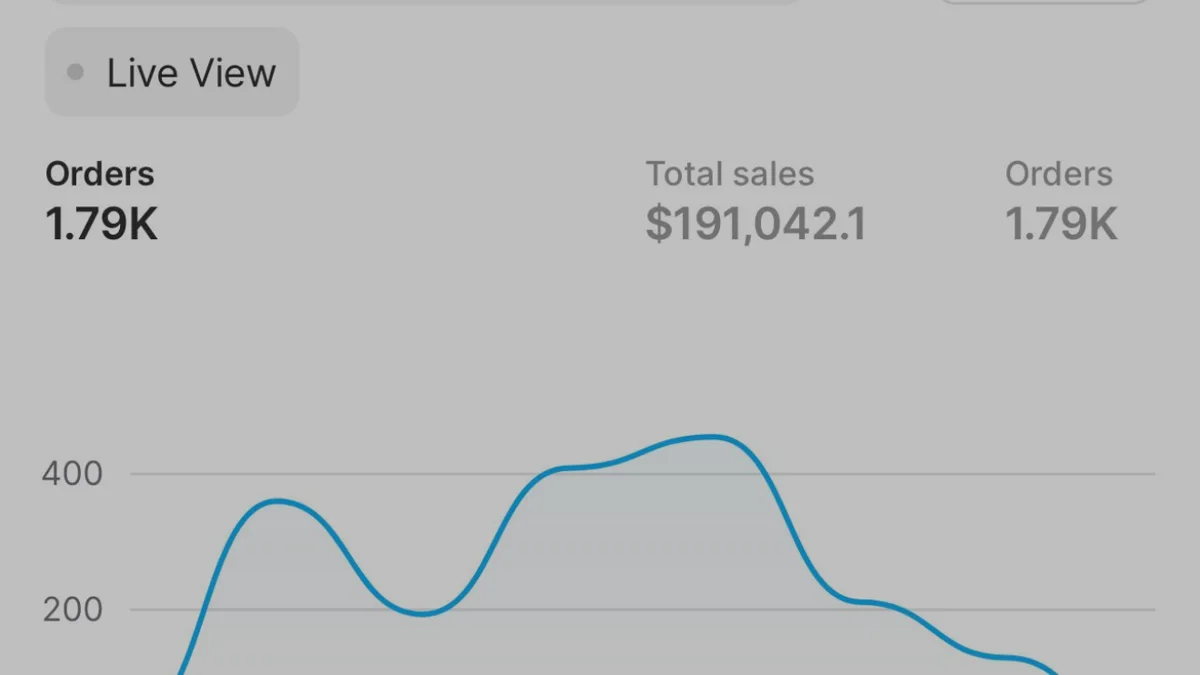
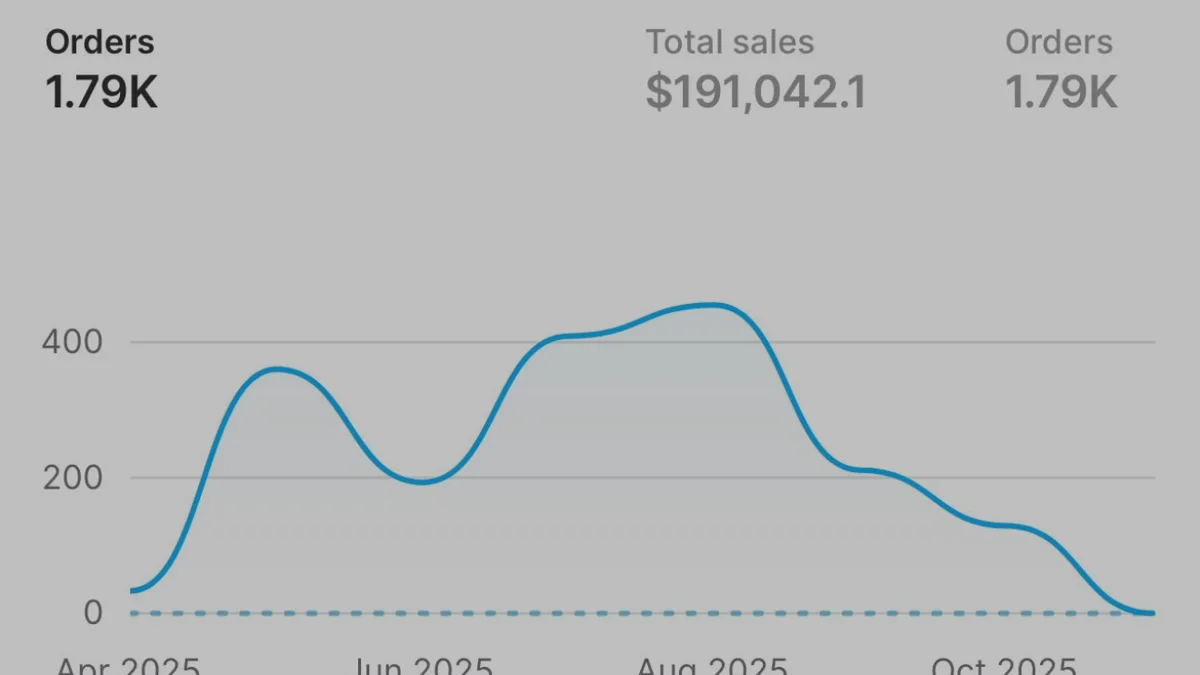
VSL grid full-width breakout, Exotic Ripz takedown handling, template 2 questions
- Case-study grid breaks out to max-w-7xl viewport width so the 2x2
  reads large instead of squeezed into the text column.
- Exotic Ripz: url removed and case study/results note the owners took
  the site down after handback; VSL card image re-cropped so the
  $191,042 figure leads; card copy mentions the takedown.
- Template 2 gains the four discovery questions as a numbered list and
  the behind-the-scenes paragraph (forms + newsletter DB, SEO/agentic
  SEO, brand voice); Template 4 Exotic Ripz line links the case study.

Claude-Session: https://claude.ai/code/session_01GkBvN7ETiDDbqc7828k9rp

diff --git a/src/data/projects.ts b/src/data/projects.ts
@@ -133,16 +133,13 @@ export const projectsData: Record<string, ProjectData> = {
     desc: 'Vibrant e-commerce platform for a collectible trading card community brand.',
     challenge: 'Exotic Ripz needed an e-commerce store that captured the excitement and energy of the collectible trading card community. They needed a platform that could handle booster packs, new releases, restocks, and community engagement across Discord, Twitch, and social media.',
     solution: 'We built a full-featured Shopify storefront with bold animated branding, integrated Discord community links, multi-platform social presence (Discord, YouTube, Twitch, TikTok, Instagram, X, Threads), smart product categorization, and conversion-optimized popups for email capture.',
-    results: 'Launched a thriving online store with active community engagement. Email list grew 400% in the first month through smart discount capture. Booster pack drops consistently sell out within hours of release.',
+    results: 'Over $191,000 in trading card sales across 1,790 orders on the store we built and shipped, with the shipping backend configured end to end. Email list grew 400% in the first month through smart discount capture, and booster pack drops consistently sold out within hours of release. The store was handed back to the owners to maintain, and they have since taken the site down, so there is no live link to share.',
     heroImage: '/images/projects/exoticripz.jpg',
     gallery: ['/images/projects/exoticripz.jpg', '/images/projects/exoticripz-mobile.jpg', null],
     nextSlug: 'kds-systems',
-    url: 'https://exoticripz.com',
+    // No url: the owners took the site down after we handed it back to
+    // them to maintain, so there is nothing live to link or preview.
     mobileImage: '/images/projects/exoticripz-mobile.jpg',
-    // Site origin is currently returning Cloudflare 1001 (origin DNS
-    // dead) so the iframe and screenshot would both show errors. Keep
-    // the case study but skip the live preview block. Re-enable when
-    // the site is back up.
     embeddable: false,
     livePreview: false,
   },

diff --git a/src/components/VslContent.tsx b/src/components/VslContent.tsx
@@ -75,7 +75,7 @@ export function VslContent() {
             desktop so the cards read large. Links open in a new tab so
             this page (and its form) stays open. */}
         <AnimatedSection delay={0.2}>
-          <div className="mt-4 sm:mt-6 lg:-mx-32 text-left">
+          <div className="mt-4 sm:mt-6 relative left-1/2 -translate-x-1/2 w-screen max-w-7xl px-5 sm:px-8 text-left">
             <p className="text-xs font-semibold tracking-wider text-gray-500 uppercase text-center mb-6">
               The work, and the numbers
             </p>
@@ -101,7 +101,7 @@ export function VslContent() {
                 },
                 {
                   name: 'Exotic Ripz', where: 'E-commerce, US',
-                  proof: '$191k in trading card sales, 1,790 orders on the Shopify store we built.',
+                  proof: '$191k in trading card sales, 1,790 orders on the Shopify store we built. The owners have since taken the store down.',
                   href: '/projects/exotic-ripz', label: 'View case study',
                   image: '/images/projects/exoticripz-card.webp',
                 },

diff --git a/docs/pitch-templates.md b/docs/pitch-templates.md
@@ -56,11 +56,18 @@ Every template already has the right tracked link baked in. All links open the s
 >
 > Quick intro: we're Blok Blok Studio, a team of 4 (Berlin, LA, Virginia) running since 2024. We don't just build websites. We build the ecosystem around them: marketing, SEO, social, and automations like AI receptionists and auto-texting. One client, a DFW plumber, did $50k+ gross in his first 5 months on our system.
 >
-> Here's a 3-minute breakdown of how we think about it: https://www.blokblokstudio.com/vsl?utm_source=warm-email&utm_medium=email&utm_campaign=pitch
+> Behind the scenes, every build also comes with the stuff you'd otherwise have to chase down yourself: contact forms wired to a database so you're collecting emails for newsletters from day one, SEO plus the newly emerging agentic SEO so you show up in searches and AI answers, and a site that actually sounds like your brand. The point is to free up your time so you can focus on your business.
+>
+> Here's a 3-minute breakdown of how we think about it, with the client results on the same page: https://www.blokblokstudio.com/vsl?utm_source=warm-email&utm_medium=email&utm_campaign=pitch
 >
 > The fastest way forward is a quick call so I can learn your business and send pricing that actually fits: https://calendar.app.google/Vk72posRYTuj6KHs8
 >
-> If it's easier, just reply with: what services you offer, where you're located, your biggest struggle right now, and your growth goal. I'll shoot pricing over from there.
+> If it's easier, just reply to these four and I'll shoot pricing over from there:
+>
+> 1. What services does your business provide?
+> 2. Where are you located?
+> 3. What struggles are you facing right now?
+> 4. What's your growth goal for the business?
 >
 > Excited to hear more about your business!
 >
@@ -110,7 +117,7 @@ Cold email rules: plain text only, no images, no signature banner, this one link
 >
 > 4. Mind and Body Retreats, a US wellness company. This one is still in progress: https://mindandbodyretreats.vercel.app/
 >
-> 5. Exotic Ripz, a Shopify build where I also handled the shipping setup on the backend. Together we generated over $190k in Pokemon card sales (screenshot attached). The site is offline now since we handed it back to them to maintain.
+> 5. Exotic Ripz, a Shopify build where I also handled the shipping setup on the backend. Together we generated over $191k in Pokemon card sales (screenshot attached). We handed the store back to the owners to maintain and they've since taken the site down, so the case study is the best place to see it: https://www.blokblokstudio.com/projects/exotic-ripz?utm_source=warm-email&utm_medium=email&utm_campaign=pitch
 
 Attach `docs/assets/exotic-ripz-proof.png` for point 5 (cropped Shopify dashboard: $191,042 total sales, 1.79K orders, Apr-Oct 2025). It's the only attachment this template needs; the video testimonials are linked, not attached.
 >
